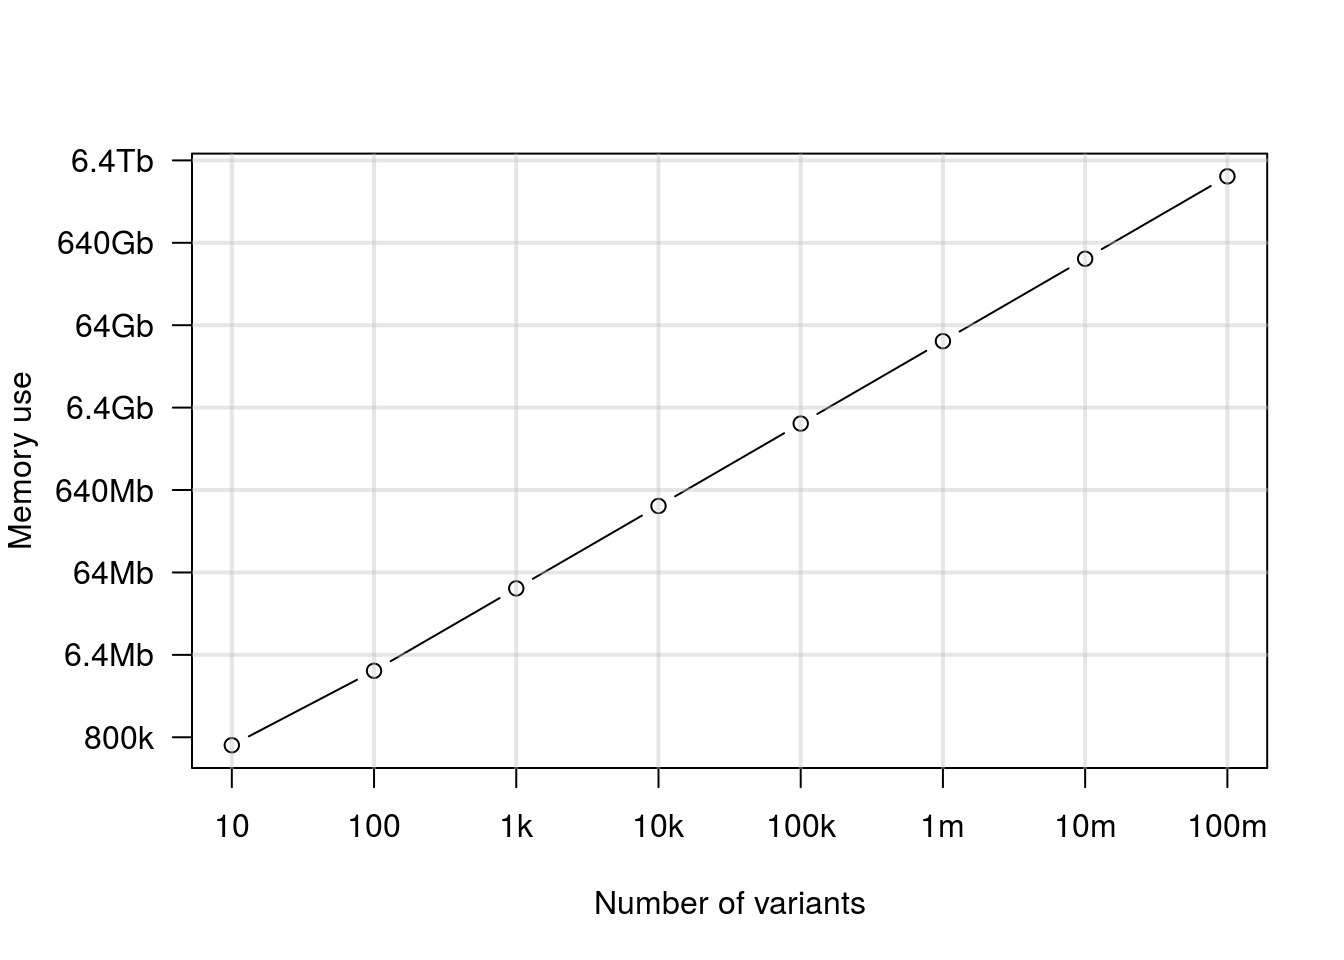
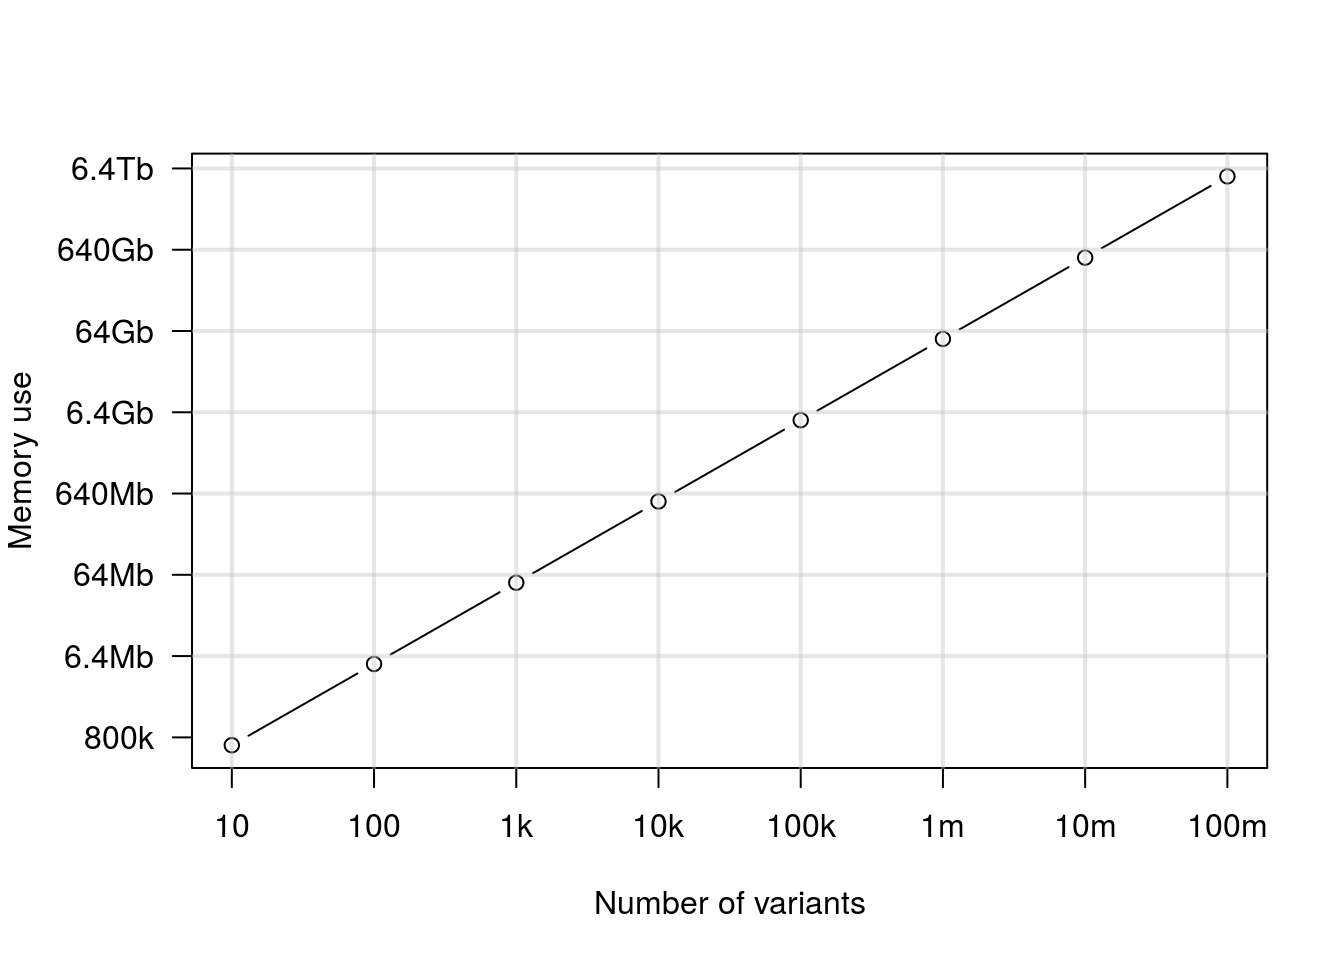
updated how_much_memory.Rmd

diff --git a/how_much_memory.html b/how_much_memory.html
@@ -355,7 +355,7 @@ nvar &lt;- 10^{2:8}
 nMb &lt;- howbig(nrow=10, ncol=10, unit=&quot;MB&quot;)
 
 for(i in nvar){
-  nMb &lt;- c(nMb, howbig(nrow=i, ncol=8, unit=&quot;KB&quot;))
+  nMb &lt;- c(nMb, howbig(nrow=i, ncol=10, unit=&quot;KB&quot;))
 }
 nvar &lt;- c(10, nvar)
 
